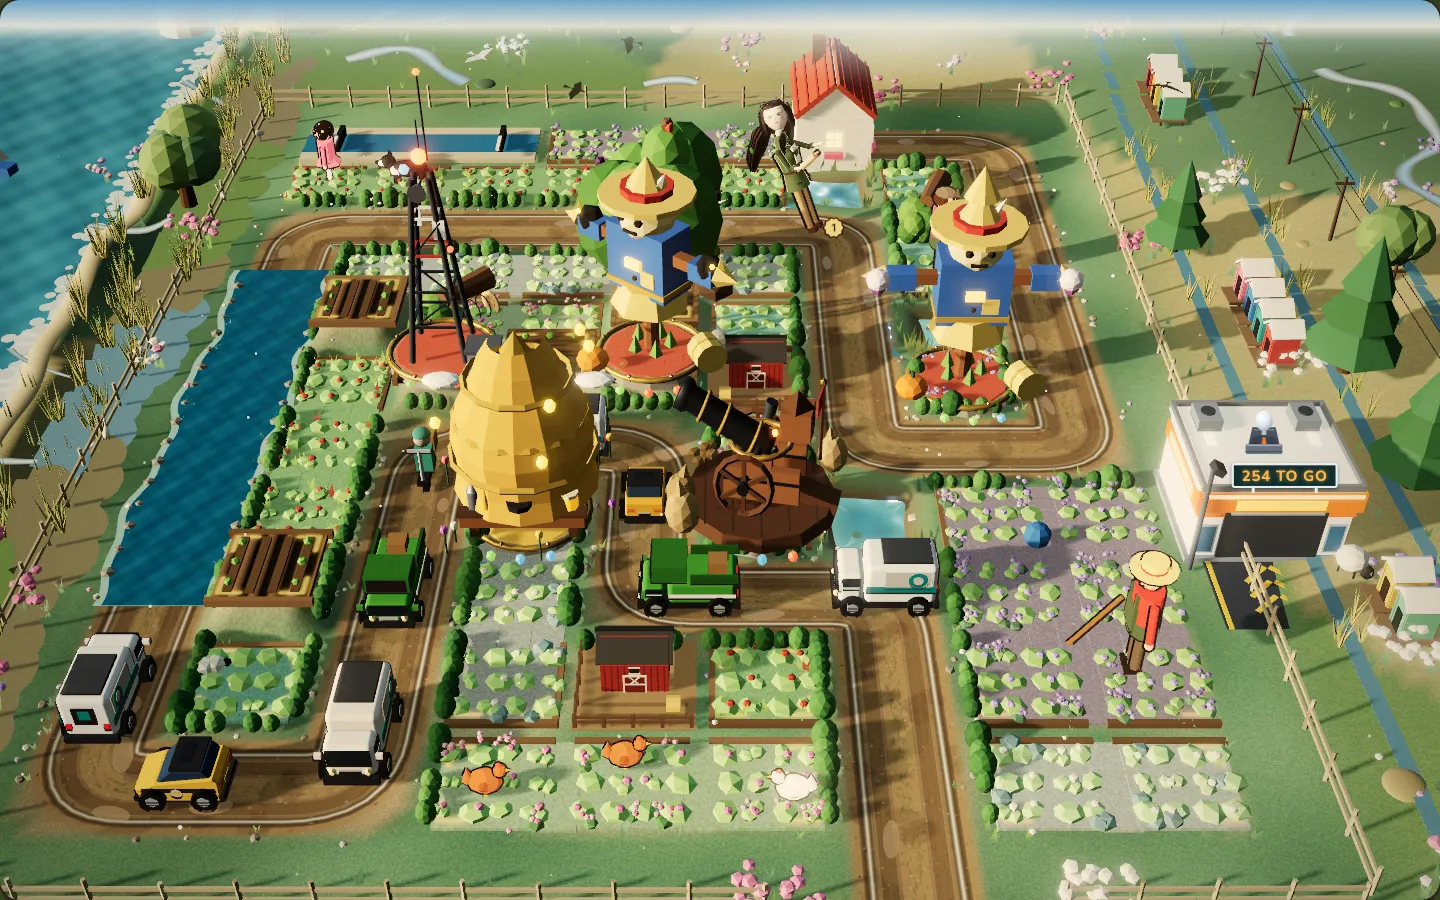
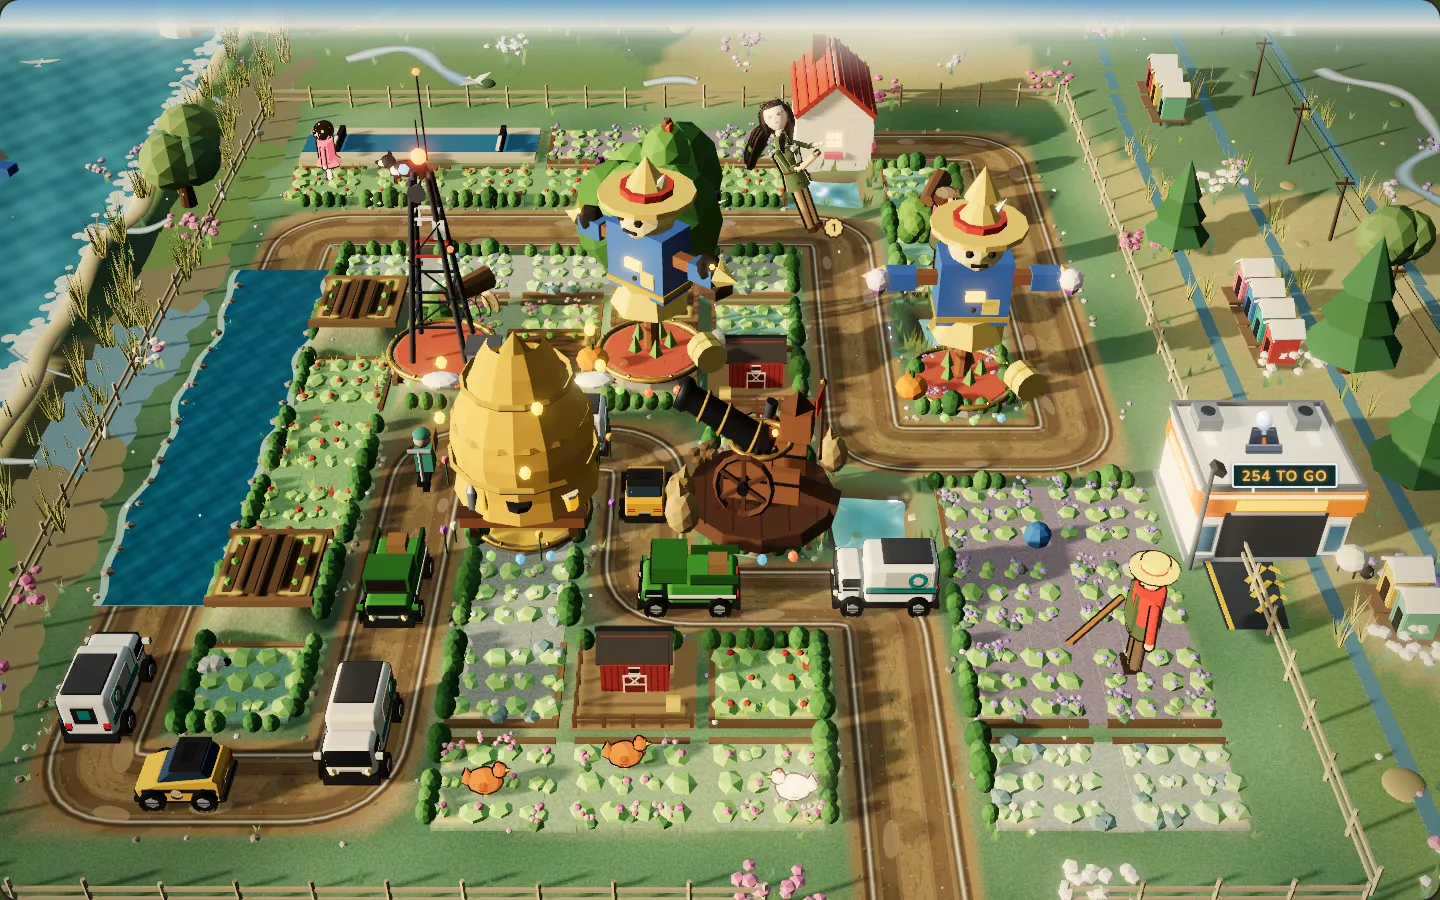
735 slice 3: Hedgerow phone 3D beds toned per act (PHONE_BED): act 1 lighter, acts 3-4 darker, so the phone's plots sit within 10% of D's luminance at levels 1/12/27 (12% at 34; were -21%, +21%, +67%), the milky act 3/4 beds gone and the lane apart; key art re-shot
Claude-Session: https://claude.ai/code/session_01SimvMRM53opvH7rkUTpe2W

diff --git a/games/hedgerow/src/render3d/terrain.ts b/games/hedgerow/src/render3d/terrain.ts
@@ -699,6 +699,10 @@ export const FARMHOUSE_3D_SCALE = 1.6;
 /** Plan item 486: how an upright phone's lane ribbon is toned per act, apart from its beds (darker where the beds are
  *  light; lighter where they are dark earth). */
 const PHONE_LANE: Record<number, number> = { 2: 0.55, 3: 5.4 };
+/** Plan item 735: an upright phone's bed tint per act (else 1.2): the flat 1.2 left act 1's top-down beds 21% darker
+ *  than D's and act 3/4's 21-67% lighter and paler (milky); now within 10% of D at levels 1, 12, 27 and 12% at 34
+ *  (`scripts/hedgerow-735-measure.mjs`, plots alone). */
+const PHONE_BED: Record<number, number> = { 0: 1.75, 2: 1.0, 3: 0.4 };
 /** Plan item 486: `phone` (an upright phone's frame, set at build): the lane's packed earth a shade darker and the
  *  beds a shade lighter, so at 390 px the lane reads apart from the plots (lane-to-plot contrast 1.0-1.3 on the
  *  darker acts before; `scripts/hedgerow-486-measure`). */
@@ -1035,7 +1039,7 @@ export function buildGround(level: Level, opts: { phone?: boolean } = {}): Groun
         const turn = across ? 0 : Math.PI / 2;
         const jitter = deco();
         const fieldJitter = field ? (((fc * 73 + fr * 151 + level.id * 29) % 97) + 0.5) / 97 : jitter;
-        const tint = new THREE.Color(marsh ? marsh.tint : bedTint[base]).multiplyScalar((0.92 + fieldJitter * 0.16) * (phone ? 1.2 : 1));
+        const tint = new THREE.Color(marsh ? marsh.tint : bedTint[base]).multiplyScalar((0.92 + fieldJitter * 0.16) * (phone ? (PHONE_BED[act] ?? 1.2) : 1));
         beds[base].push({ x: c + 0.5, y: h, z: r + 0.5, ry: turn, s: 1, sy: 1, color: tint });
         bedTints.set(`${c},${r}`, tint);
         plotBedLooks.set(`${c},${r}`, look);
